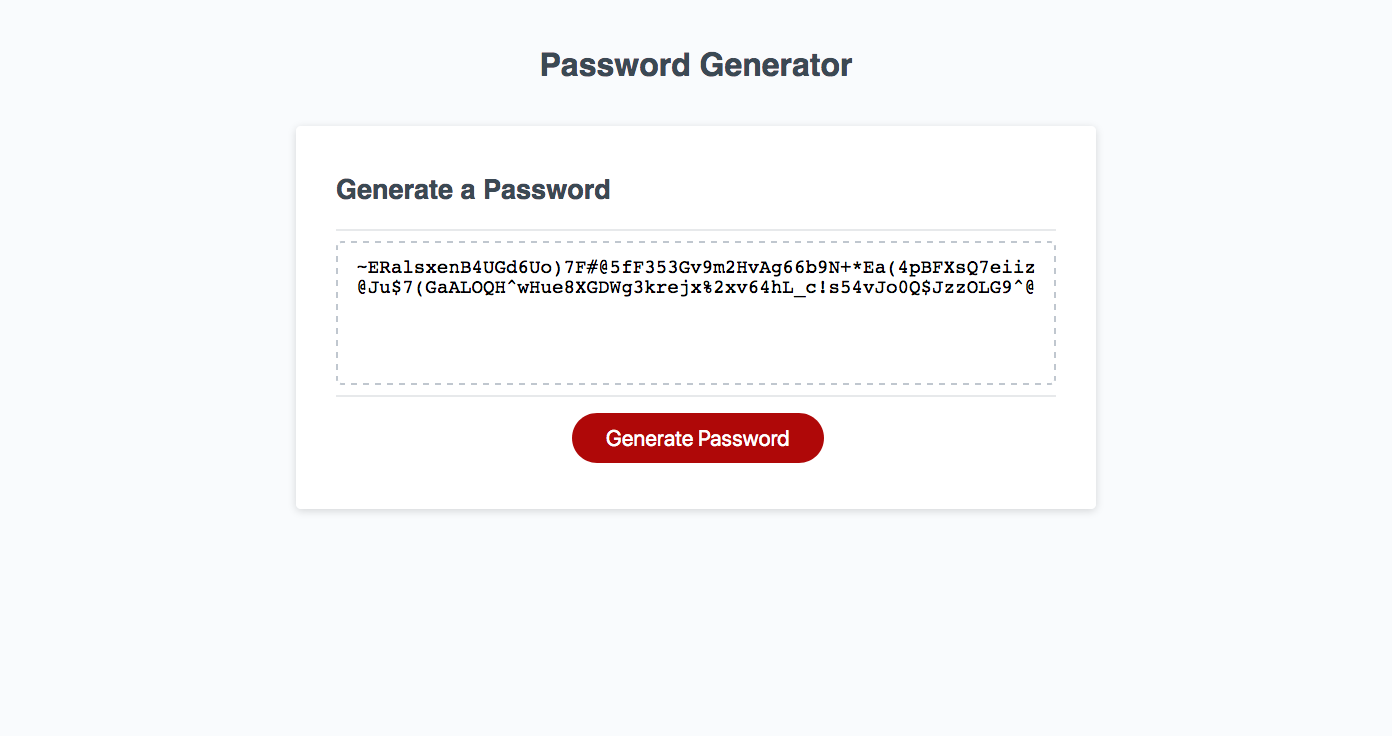
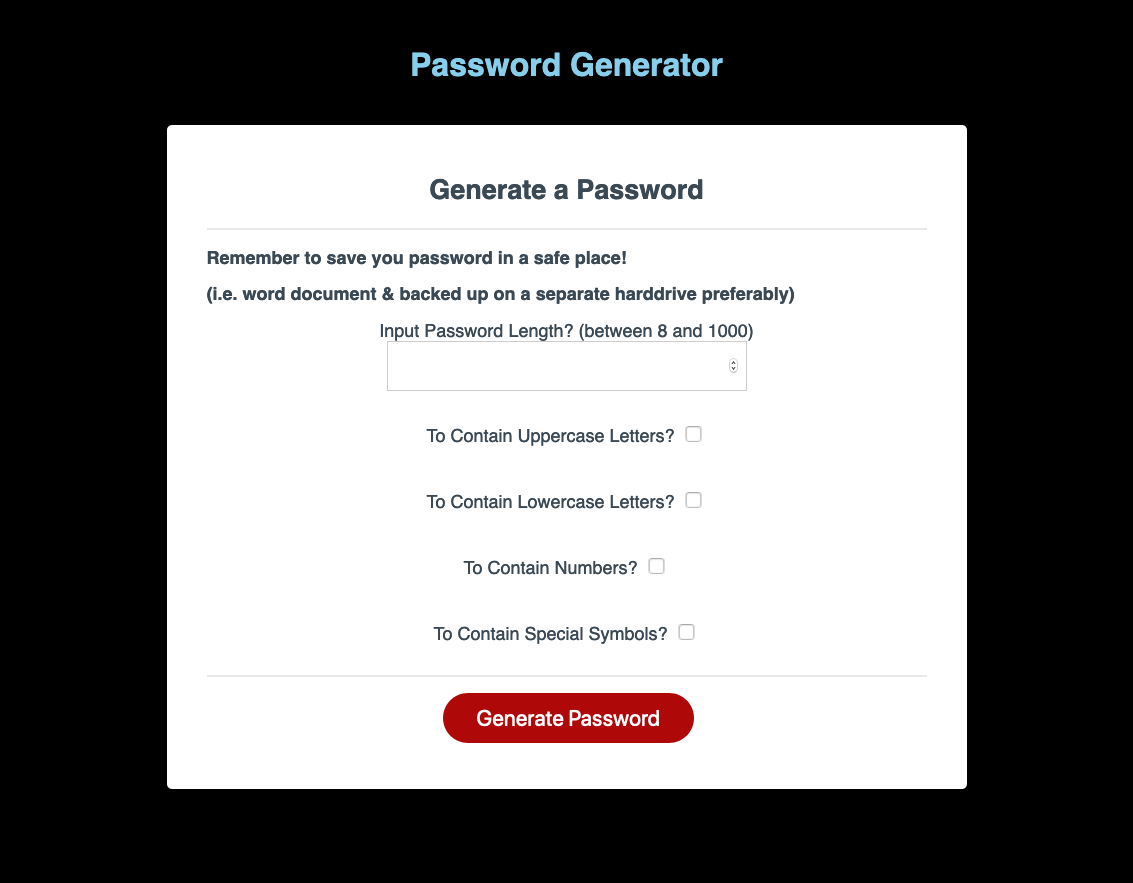
updated readme

diff --git a/README.md b/README.md
@@ -10,35 +10,12 @@ https://dj-viking.github.io/random-password-generator
 
 ## Summary
 
-Here I have created in Javascript- an random password generator that you can choose a password length of 8 characters up to 128 characters.
+1. Enter into the input field how long your password should be between 1 and 1000 characters
 
-Clicking the "Generate Password" button will begin the generation process. There will be a series of prompts which will guide you through some questions as to what you want your password to consist of.
-* Upper Case letters?
-* Lower Case letters?
-* Special Characters?
-* Numbers?
+2. Check which criteria you would like your password to follow in the displayed checkboxes
+  * Upper Case letters?
+  * Lower Case letters?
+  * Special Characters?
+  * Numbers?
 
-Each of these questions will provide a unique password. The longer password lengths are more reliable in creating something with more variety. As having passwords around 8 characters will not shuffle nicely and might not include some of your choices.
-
-Listed below are the current reliable choice sequences that will provide the best result.
-Currently answering "No" or closing the window prompt to every question will not generate a password and the text area will be blank.
-
-## Choice combinations
-
-Uppercase   Lowercase  Symbols  Numbers 
-
-* YES, YES, YES, YES
-* YES,YES, YES, NO
-* YES, YES, NO, NO
-* YES, NO, NO, NO
-* NO, NO, NO, NO
-* NO, YES, YES, YES
-* NO, NO, YES, YES
-* NO, NO, NO, YES
-
-## Bugged choices
- * YES NO YES YES 
- doesn't give any upper case letters. They all disappear only contains symbols and numbers.
-
- * YES NO YES NO  
- only gives special characters and no uppercase letters
+3. Click Generate Password to display a text area where the password will appear for you to copy or modify 
